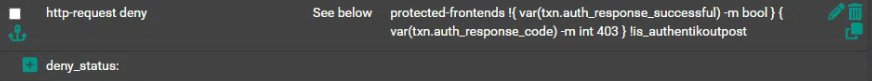
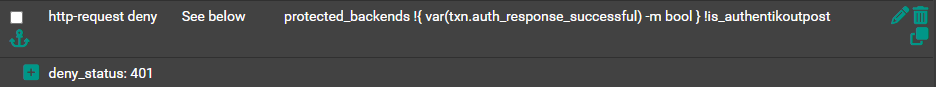
modified an acl

diff --git a/README.md b/README.md
@@ -256,7 +256,7 @@ Reference:\
 
 
 ```
-http-request deny if protected-frontends !{ var(txn.auth_response_successful) -m bool } { var(txn.auth_response_code) -m int 403 } !is_authentikoutpost
+http-request deny deny_status 401 if protected-frontends !{ var(txn.auth_response_successful) -m bool } !is_authentikoutpost
 ```
 Reference:\
 ![33.png](/images/33.png)
